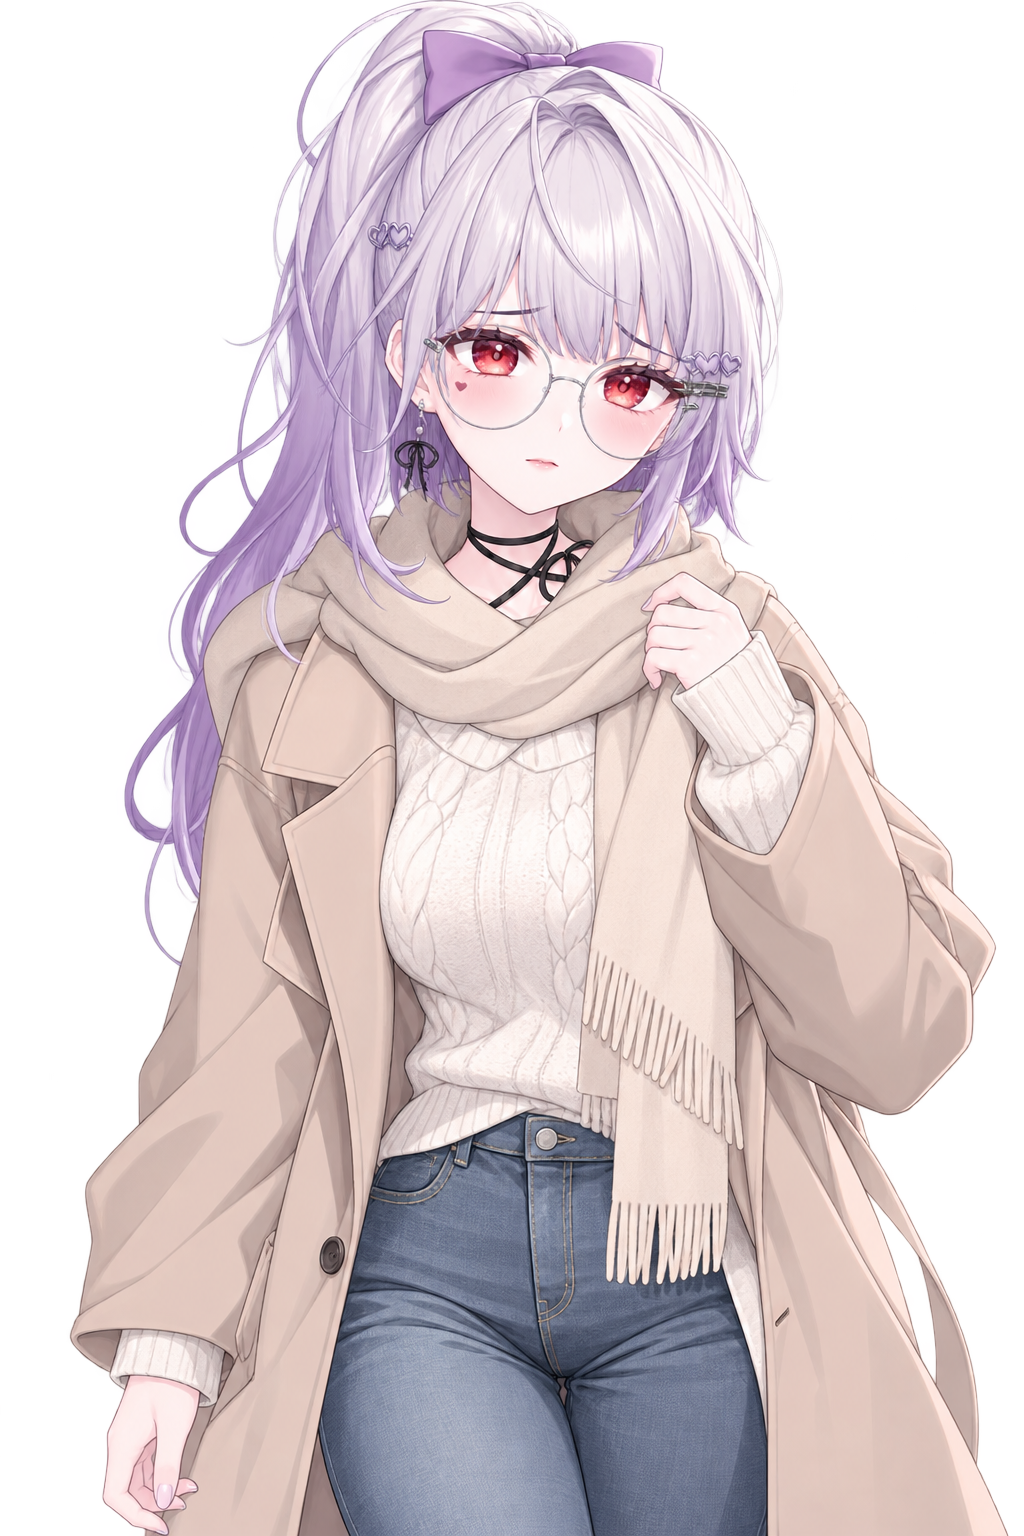
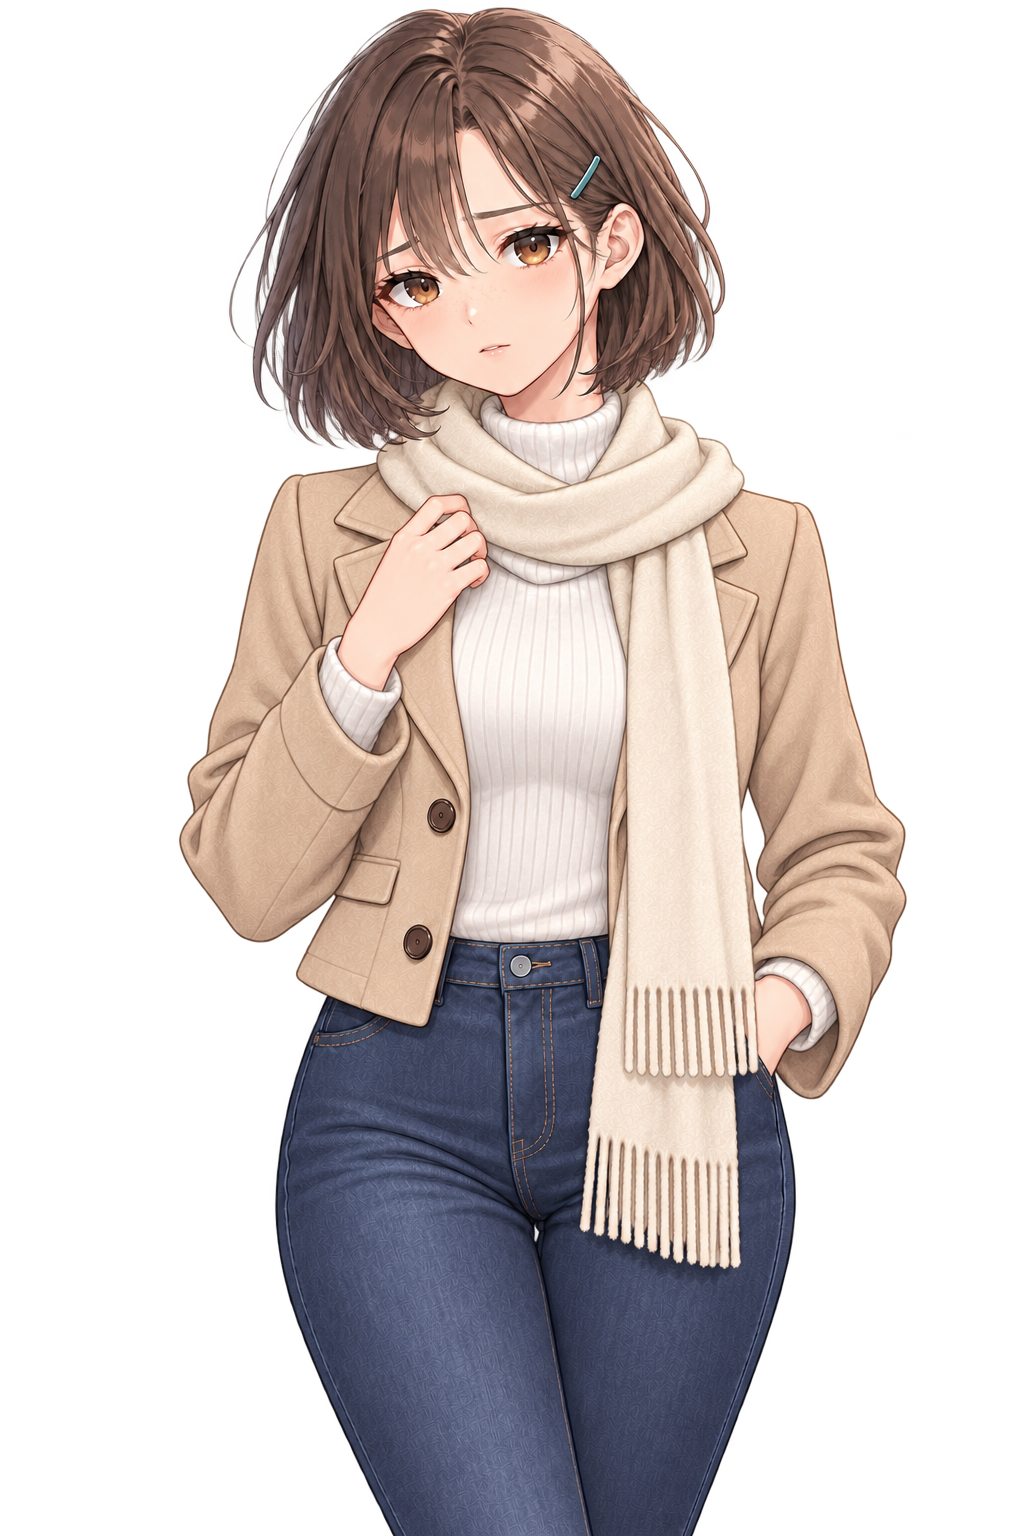
CH16 꾸민 의상 스탠딩 일러스트 수정

diff --git a/docs/illustration-replacement-prompts.md b/docs/illustration-replacement-prompts.md
@@ -164,16 +164,18 @@ CG는 공통 CG 블록과 파일별 장면 프롬프트를 이어 붙인다. 무
 
 ### CH16 꾸민 의상 P16 세트
 
-의상 블록: 무릎 아래 길이의 따뜻한 베이지 코트, 크림색 니트와 긴 베이지 목도리, 짙은 청색 스트레이트 청바지, 작은 단색 크로스백. 안경은 쓰지 않는다.
+공통 구도: 머리 위부터 무릎 바로 위까지 보이는 무릎 위 크롭.
+
+의상 블록: 허리와 골반 윗부분까지 오는 짧고 몸에 맞는 베이지색 테일러드 재킷, 허리를 덮는 크림색 골지 니트, 긴 베이지 목도리, 몸에 맞는 짙은 남색 스트레이트 청바지. 가방과 끈, 안경, 로고는 넣지 않는다.
 
 | 파일 | 개별 표정·포즈 프롬프트 |
 |---|---|
-| [P16-1.png](../assets/standing/P16-1.png) | 차분한 겨울 기본 표정, 한 손으로 코트 옷깃을 가볍게 잡는다. |
-| [P16-2.png](../assets/standing/P16-2.png) | 따뜻하게 웃으며 목도리 끝을 정리하고 상대와 시선을 맞춘다. |
-| [P16-3.png](../assets/standing/P16-3.png) | 눈 내리는 거리에서 놀라 고개를 들고 한 손으로 목도리를 붙든다. |
-| [P16-4.png](../assets/standing/P16-4.png) | 부끄러운 듯 고개를 숙이고 코트 깃 뒤로 얼굴을 살짝 숨긴다. |
-| [P16-5.png](../assets/standing/P16-5.png) | 걱정스러운 눈빛으로 손을 모아 목도리 위에 얹는다. |
-| [P16-6.png](../assets/standing/P16-6.png) | 장난스럽게 입을 내밀고 옆을 바라보며 코트 주머니에 한 손을 넣는다. |
+| [P16-1.png](../assets/standing/P16-1.png) | 차분한 겨울 기본 표정, 한 손으로 재킷 옷깃을 잡고 다른 손은 주머니에 넣는다. |
+| [P16-2.png](../assets/standing/P16-2.png) | 따뜻하게 웃으며 한 손으로 목도리 끝을 정리하고 다른 손은 주머니에 둔다. |
+| [P16-3.png](../assets/standing/P16-3.png) | 눈을 보고 놀라 위를 바라보며 한 손으로 목도리를 잡고 다른 손은 주머니에 둔다. |
+| [P16-4.png](../assets/standing/P16-4.png) | 수줍게 볼을 붉히고 시선을 아래로 피하며 한 손으로 재킷 옷깃을 잡는다. |
+| [P16-5.png](../assets/standing/P16-5.png) | 걱정스러운 표정으로 목도리 가까이에 한 손을 올리고 다른 손은 주머니에 둔다. |
+| [P16-6.png](../assets/standing/P16-6.png) | 장난스럽게 입을 내밀고 옆을 바라보며 한 손은 주머니에, 다른 손은 편하게 내린다. |
 
 ### CH24 자유 의상 C24 세트
 
@@ -268,4 +270,4 @@ CG는 공통 CG 블록과 파일별 장면 프롬프트를 이어 붙인다. 무
 - 이미지 모델이 만든 문자·로고·워터마크는 제거하고, 필요한 문구는 별도로 편집한다.
 - 인물 외형 참조에는 승인된 공통 캐릭터 기준 이미지만 사용한다. 사용자가 특정 의상 참고 이미지를 제공한 경우에는 지정된 의상 형태만 참고하고 얼굴·머리·포즈·배경은 복사하지 않는다. 결과가 새 공통 캐릭터 기준과 다르면 해당 파일을 다시 생성한다.
 
-이 문서는 교체 대상의 프롬프트와 파일 대응표다. S·W·G·A·C1·P1·C13·P13·C16 스탠딩 세트의 생성과 파일 교체를 완료했으며, 나머지 이미지는 작업별로 진행한다.
+이 문서는 교체 대상의 프롬프트와 파일 대응표다. S·W·G·A·C1·P1·C13·P13·C16·P16 스탠딩 세트의 생성과 파일 교체를 완료했으며, 나머지 이미지는 작업별로 진행한다.
